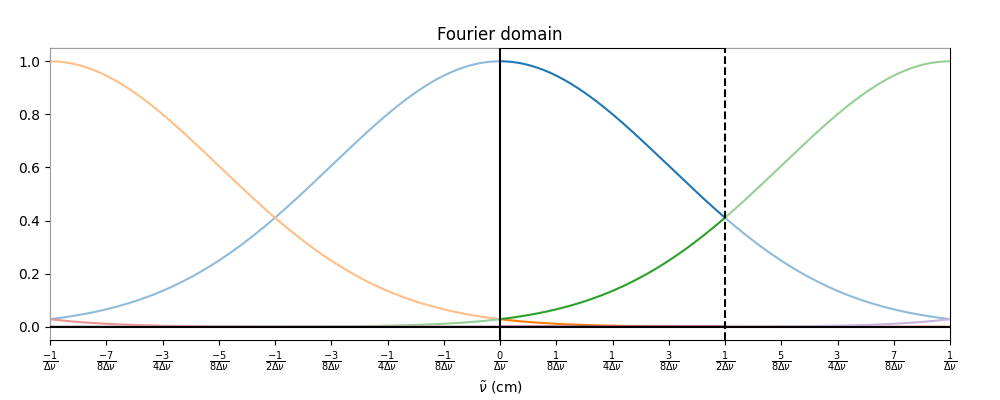
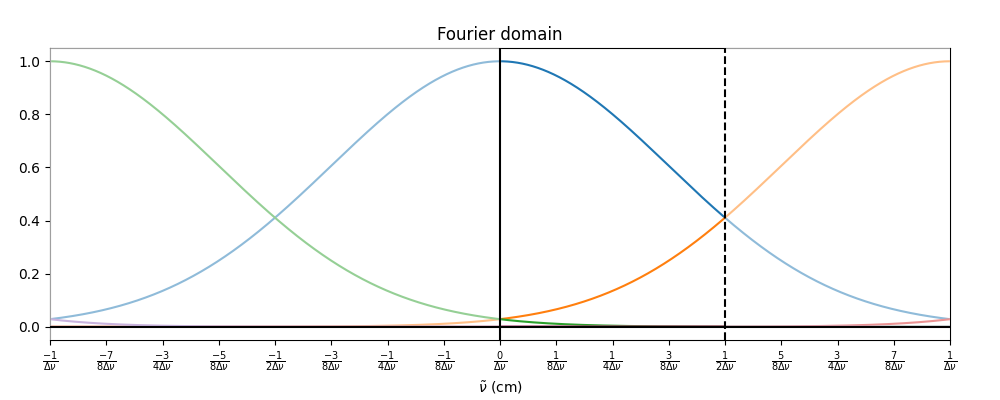
added folding figures

diff --git a/folding/folding2.py b/folding/folding2.py
@@ -6,10 +6,10 @@ from matplotlib.patches import ConnectionPatch
 gG = lambda v,w: (2/w)*np.sqrt(np.log(2)/np.pi)*np.exp(-4*np.log(2)*(v/w)**2)
 gL = lambda v,w: (1/np.pi) * (w/2) / (v**2 + (w/2)**2)*dv
 
-gG_FT = lambda x,w: np.exp(-(np.pi*x*wG)**2/(4*np.log(2)))
-gL_FT = lambda x,w: np.exp(- np.pi*x*wL)
+gG_FT = lambda x,w: np.exp(-(np.pi*x*w)**2/(4*np.log(2)))
+gL_FT = lambda x,w: np.exp(- np.pi*x*w)
 
-dv = 0.001 #cm-1
+dv = 0.01 #cm-1
 v_max = 100.0 #cm-1
 v_arr = np.arange(0,v_max,dv)
 N_zpad = v_arr.size ## can be 0..v_arr.size
@@ -26,7 +26,7 @@ plt.subplots_adjust(left=0.05,right=0.95,bottom=0.15)
 axins = ax1.inset_axes([0.45, 0.15, 0.50, 0.40])
 axins.ticklabel_format(useOffset=False, axis='x')
 axins.set_xlim(1.5*dv,4.5*dv)
-axins.set_ylim(-22,22)
+axins.set_ylim(-0.022/dv,0.022/dv)
 axins.get_xaxis().set_visible(False)
 axins.get_yaxis().set_visible(False)
 
@@ -37,9 +37,9 @@ ax2.axhline(0,c='k')
 ax2.axvline(0,c='k')
 axins.axhline(0,c='k')
 
-for wG in w_arr:
+for w in w_arr:
     
-    I_FT = gG_FT(x_arr,wG)
+    I_FT = gG_FT(x_arr,w)
     I = np.fft.irfft(I_FT/dv)[:v_arr.size]
 
     p, = ax1.plot(v_arr,I,'--',alpha=0.5)
@@ -47,11 +47,11 @@ for wG in w_arr:
     c = p.get_color()
     ax2.plot(x_arr,I_FT,'--',c=c,alpha = 0.5)
 
-    I2 = gG(v_arr,wG)
+    I2 = gG(v_arr,w)
     I2_FT = np.fft.rfft(list(I2) + [0] + list(I2)[:0:-1])*dv # this assumes N_zpad = v_arr.size
     
 
-    ax1.plot(v_arr,I2,c=c,label = '$w_G = {:.1f} \\times \\Delta\\nu$'.format(wG/dv))
+    ax1.plot(v_arr,I2,c=c,label = '$w_G = {:.1f} \\times \\Delta\\nu$'.format(w/dv))
     axins.plot(v_arr,I2,c=c)
     ax2.plot(x_arr,I2_FT.real,c=c) ## I2 is symmetric, so I2_FT has only real components
     

diff --git a/folding/folding1.py b/folding/folding1.py
@@ -6,10 +6,10 @@ from matplotlib.patches import ConnectionPatch
 gG = lambda v,w: (2/w)*np.sqrt(np.log(2)/np.pi)*np.exp(-4*np.log(2)*(v/w)**2)
 gL = lambda v,w: (1/np.pi) * (w/2) / (v**2 + (w/2)**2)*dv
 
-gG_FT = lambda x,w: np.exp(-(np.pi*x*wG)**2/(4*np.log(2)))
-gL_FT = lambda x,w: np.exp(- np.pi*x*wL)
+gG_FT = lambda x,w: np.exp(-(np.pi*x*w)**2/(4*np.log(2)))
+gL_FT = lambda x,w: np.exp(- np.pi*x*w)
 
-dv = 0.001 #cm-1
+dv = 0.01 #cm-1
 v_max = 100.0 #cm-1
 v_arr = np.arange(0,v_max,dv)
 N_zpad = v_arr.size ## can be 0..v_arr.size
@@ -26,7 +26,7 @@ plt.subplots_adjust(left=0.05,right=0.95,bottom=0.15)
 axins = ax1.inset_axes([0.45, 0.2, 0.50, 0.35])
 axins.ticklabel_format(useOffset=False, axis='x')
 axins.set_xlim(1.5*dv,4.5*dv)
-axins.set_ylim(-22,22)
+axins.set_ylim(-0.022/dv,0.022/dv)
 axins.get_xaxis().set_visible(False)
 axins.get_yaxis().set_visible(False)
 
@@ -37,12 +37,12 @@ ax2.axvline(0,c='k')
 axins.axhline(0,c='k')
 
 
-for wG in w_arr:
+for w in w_arr:
     
-    I_FT = gG_FT(x_arr,wG)
+    I_FT = gG_FT(x_arr,w)
     I = np.fft.irfft(I_FT/dv)[:v_arr.size]
 
-    ax1.plot(v_arr,I,label = '$w_G = {:.1f} \\times \\Delta\\nu$'.format(wG/dv))
+    ax1.plot(v_arr,I,label = '$w_G = {:.1f} \\times \\Delta\\nu$'.format(w/dv))
     axins.plot(v_arr,I)
     ax2.plot(x_arr,I_FT)
     

diff --git a/demo/RADIS_comparison.py b/demo/RADIS_comparison.py
@@ -1,0 +1,49 @@
+import matplotlib.pyplot as plt
+from radis import calc_spectrum
+from discrete_integral_transform import synthesize_spectrum
+import numpy as np
+
+conditions = {
+    "molecule":"CO2",
+    "isotope":1,
+    "wavenum_min":667.5,
+    "wavenum_max":667.7,
+    "pressure":0.00646122,
+    "Tgas":234.25,
+    "path_length":100000,
+    "broadening_max_width":3,
+    "warnings":{'MissingSelfBroadeningWarning':'ignore'},
+}
+
+plt.ion()
+plt.figure()
+
+wstep = 0.003 #cm-1
+
+s1 = calc_spectrum(**conditions,
+                   wstep=wstep,
+                   optimization='min-RMS',      # if None, no error !
+                   name=f'min-RMS'
+                   )
+A = s1.get('abscoeff')[1]
+A/=A.max()
+
+v = np.arange(666.0,669.201,wstep)
+
+v0i = s1.lines.shiftwav.values
+wGi = s1.lines.hwhm_gauss.values * 2
+wLi = s1.lines.hwhm_lorentz.values * 2
+S0i = s1.lines.S.values
+
+dxG = 0.1375350788016573
+dxL = 0.20180288881201608
+
+I1,S_klm = synthesize_spectrum(v,v0i,np.log(wGi),np.log(wLi),S0i,dxG=dxG,dxL=dxL,optimized=False)
+I1/=I1.max()
+
+I2,S_klm = synthesize_spectrum(v,v0i,np.log(wGi),np.log(wLi),S0i,dxG=dxG,dxL=dxL,optimized=True)
+I2/=I2.max()
+
+plt.plot(s1.get_wavenumber(),A)
+plt.plot(v,I2,'--')
+plt.show()

diff --git a/folding/folding3.py b/folding/folding3.py
@@ -5,17 +5,17 @@ from fractions import Fraction
 gG = lambda v,w: (2/w)*np.sqrt(np.log(2)/np.pi)*np.exp(-4*np.log(2)*(v/w)**2)
 gL = lambda v,w: (1/np.pi) * (w/2) / (v**2 + (w/2)**2)*dv
 
-gG_FT = lambda x,w: np.exp(-(np.pi*x*wG)**2/(4*np.log(2)))
-gL_FT = lambda x,w: np.exp(- np.pi*x*wL)
+gG_FT = lambda x,w: np.exp(-(np.pi*x*w)**2/(4*np.log(2)))
+gL_FT = lambda x,w: np.exp(- np.pi*x*w)
 
-dv = 0.001 #cm-1
+dv = 0.01 #cm-1
 v_max = 100.0 #cm-1
 v_arr = np.arange(0,v_max,dv)
 N_zpad = v_arr.size ## can be 0..v_arr.size
 x_arr = np.linspace(-1/dv,1/dv,v_arr.size*4)
 folding_thresh = 1e-6
 
-wG = dv
+w = dv
 
 # Current RADIS implementation:
 
@@ -23,10 +23,10 @@ fig, (ax2) = plt.subplots(1,1,figsize=(10,4))
 plt.subplots_adjust(left=0.05,right=0.95,bottom=0.15)
 
 
-plt.plot(x_arr,gG_FT(x_arr,wG))
+plt.plot(x_arr,gG_FT(x_arr,w))
 for n in range(1,3):
-    plt.plot(x_arr,gG_FT( n/dv + x_arr,wG))
-    plt.plot(x_arr,gG_FT(-n/dv + x_arr,wG))
+    plt.plot(x_arr,gG_FT(-n/dv + x_arr,w))
+    plt.plot(x_arr,gG_FT( n/dv + x_arr,w))
 
 
 ax2.axvspan(-1/dv, 0, alpha=0.5, color='w',zorder = 10)

diff --git a/folding/folding4.py b/folding/folding4.py
@@ -6,10 +6,10 @@ from matplotlib.patches import ConnectionPatch
 gG = lambda v,w: (2/w)*np.sqrt(np.log(2)/np.pi)*np.exp(-4*np.log(2)*(v/w)**2)
 gL = lambda v,w: (1/np.pi) * (w/2) / (v**2 + (w/2)**2)*dv
 
-gG_FT = lambda x,w: np.exp(-(np.pi*x*wG)**2/(4*np.log(2)))
-gL_FT = lambda x,w: np.exp(- np.pi*x*wL)
+gG_FT = lambda x,w: np.exp(-(np.pi*x*w)**2/(4*np.log(2)))
+gL_FT = lambda x,w: np.exp(- np.pi*x*w)
 
-dv = 0.001 #cm-1
+dv = 0.01 #cm-1
 v_max = 100.0 #cm-1
 v_arr = np.arange(0,v_max,dv)
 N_zpad = v_arr.size ## can be 0..v_arr.size
@@ -24,7 +24,7 @@ plt.subplots_adjust(left=0.05,right=0.95,bottom=0.15)
 axins = ax1.inset_axes([0.45, 0.15, 0.50, 0.40])
 axins.ticklabel_format(useOffset=False, axis='x')
 axins.set_xlim(1.5*dv,4.5*dv)
-axins.set_ylim(-22,22)
+axins.set_ylim(-0.022/dv,0.022/dv)
 axins.get_xaxis().set_visible(False)
 axins.get_yaxis().set_visible(False)
 

diff --git a/demo/expapprox.py b/demo/expapprox.py
@@ -1,0 +1,49 @@
+import numpy as np
+import matplotlib.pyplot as plt
+
+g = lambda x,w: np.exp(-w*x)
+
+
+x_max = 10
+dx = 0.01
+
+x = np.arange(dx,x_max,dx)
+
+dxE = 1.2
+
+p  = 1.2
+
+wp2 = p**2
+wp1 = p**1
+we =  p**0
+wm1 = p**(-1)
+wm2 = p**(-2)
+
+Ip2 = g(x,wp2)
+Ip1 = g(x,wp1)
+Ie  = g(x,we)
+Im1 = g(x,wm1)
+Im2 = g(x,wm2)
+
+Ia1 = 0.5*Ip1 + 0.5*Im1
+Ia2 = 0.5*Ip2 + 0.5*Im2
+
+
+Ia3 = (-0.5*Ip2 + 4*0.5*Ip1 + 4*0.5*Im1 - 0.5*Im2)/3
+
+
+##plt.plot(x,Ip1)
+##plt.plot(x,Im1)
+
+plt.plot(x,Ie)
+plt.plot(x,Ia1,'--',label = '1')
+##plt.plot(x,Ia2,'--',label='2')
+plt.plot(x,Ia3,'--',label='3')
+
+plt.legend()
+
+##plt.plot(x,Ia1-Ie,'-')
+##plt.plot(x,Ia2-Ie,'-')
+##plt.plot(x,Ia3-Ie,'--')
+plt.axhline(0.0002)
+plt.show()

diff --git a/demo/show_spectrum.py b/demo/show_spectrum.py
@@ -14,7 +14,7 @@ init_database([HITEMP_path + "02_2000-2125_HITEMP2010.par",
 
 v_min = 2200.0 #cm-1
 v_max = 2400.0 #cm-1
-dv =     0.001 #cm-1
+dv =     0.002 #cm-1
 v = np.arange(v_min,v_max,dv) #cm-1
 
 dxG = 0.2
